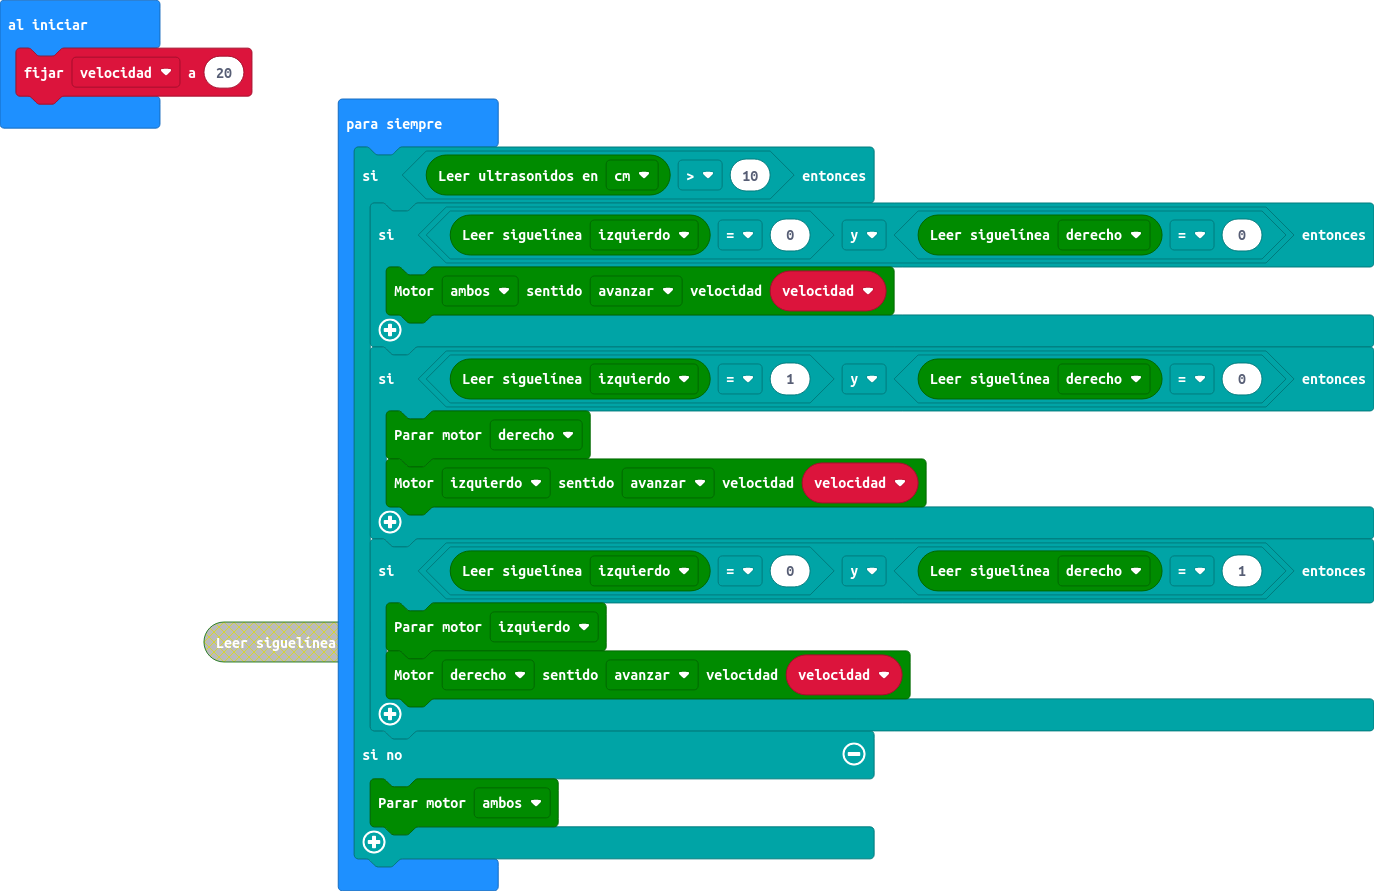
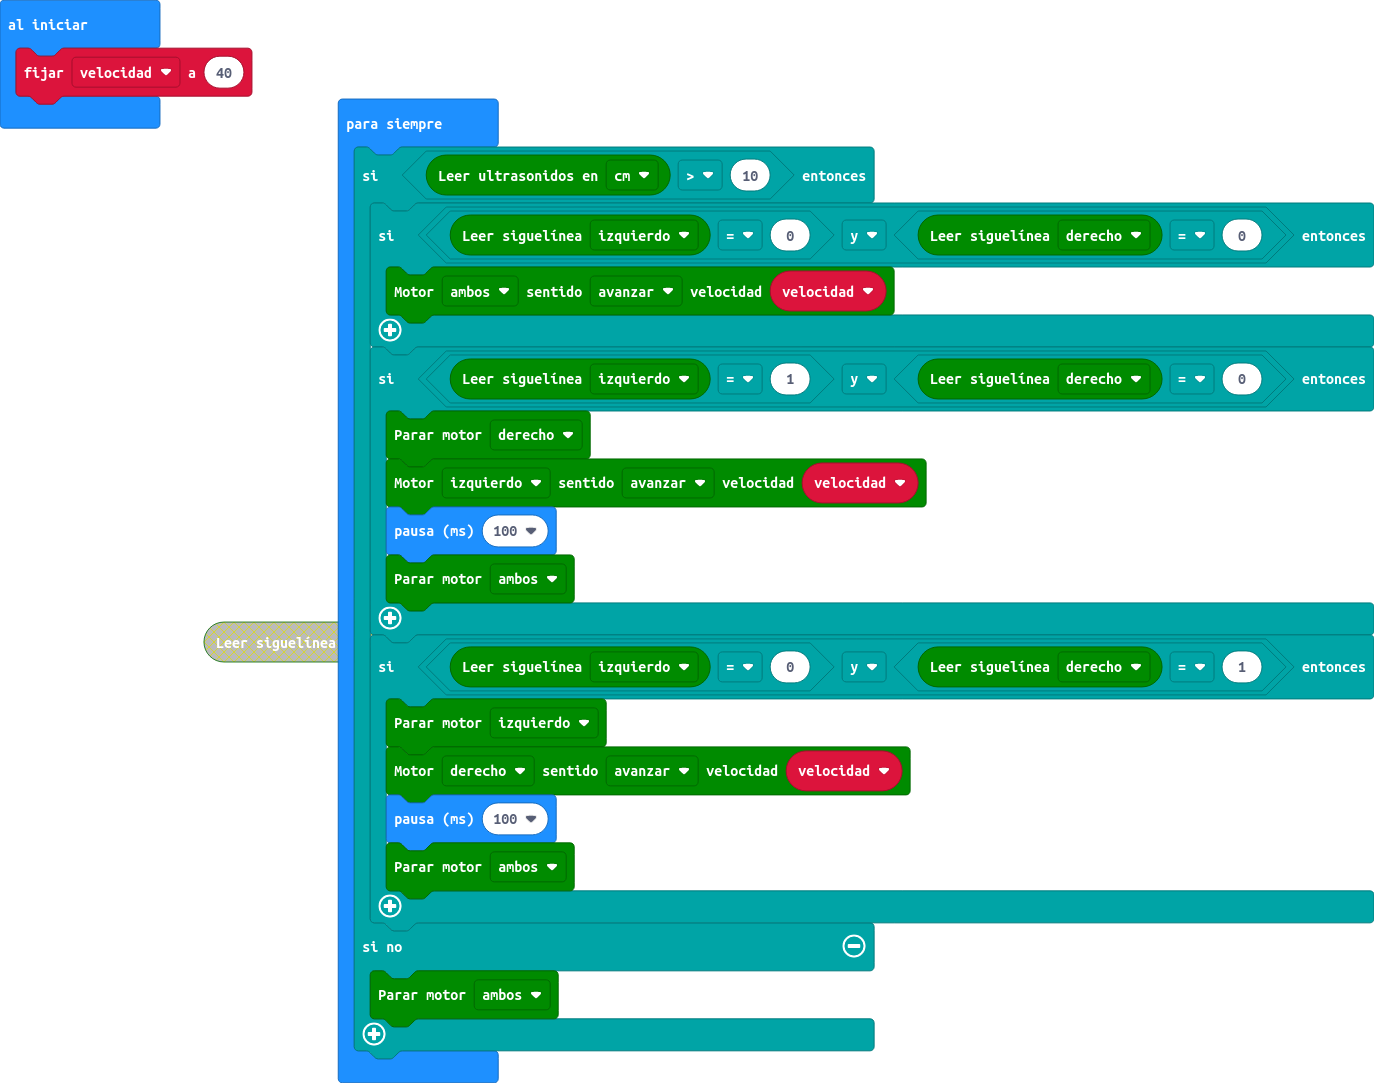
Actualizar main.blocks, main.ts

diff --git a/main.ts b/main.ts
@@ -1,4 +1,4 @@
-let velocidad = 20
+let velocidad = 40
 basic.forever(function () {
     if (maqueen.Ultrasonic(PingUnit.Centimeters) > 10) {
         if (maqueen.readPatrol(maqueen.Patrol.PatrolLeft) == 0 && maqueen.readPatrol(maqueen.Patrol.PatrolRight) == 0) {
@@ -7,10 +7,14 @@ basic.forever(function () {
         if (maqueen.readPatrol(maqueen.Patrol.PatrolLeft) == 1 && maqueen.readPatrol(maqueen.Patrol.PatrolRight) == 0) {
             maqueen.motorStop(maqueen.Motors.M2)
             maqueen.motorRun(maqueen.Motors.M1, maqueen.Dir.CW, velocidad)
+            basic.pause(100)
+            maqueen.motorStop(maqueen.Motors.All)
         }
         if (maqueen.readPatrol(maqueen.Patrol.PatrolLeft) == 0 && maqueen.readPatrol(maqueen.Patrol.PatrolRight) == 1) {
             maqueen.motorStop(maqueen.Motors.M1)
             maqueen.motorRun(maqueen.Motors.M2, maqueen.Dir.CW, velocidad)
+            basic.pause(100)
+            maqueen.motorStop(maqueen.Motors.All)
         }
     } else {
         maqueen.motorStop(maqueen.Motors.All)
